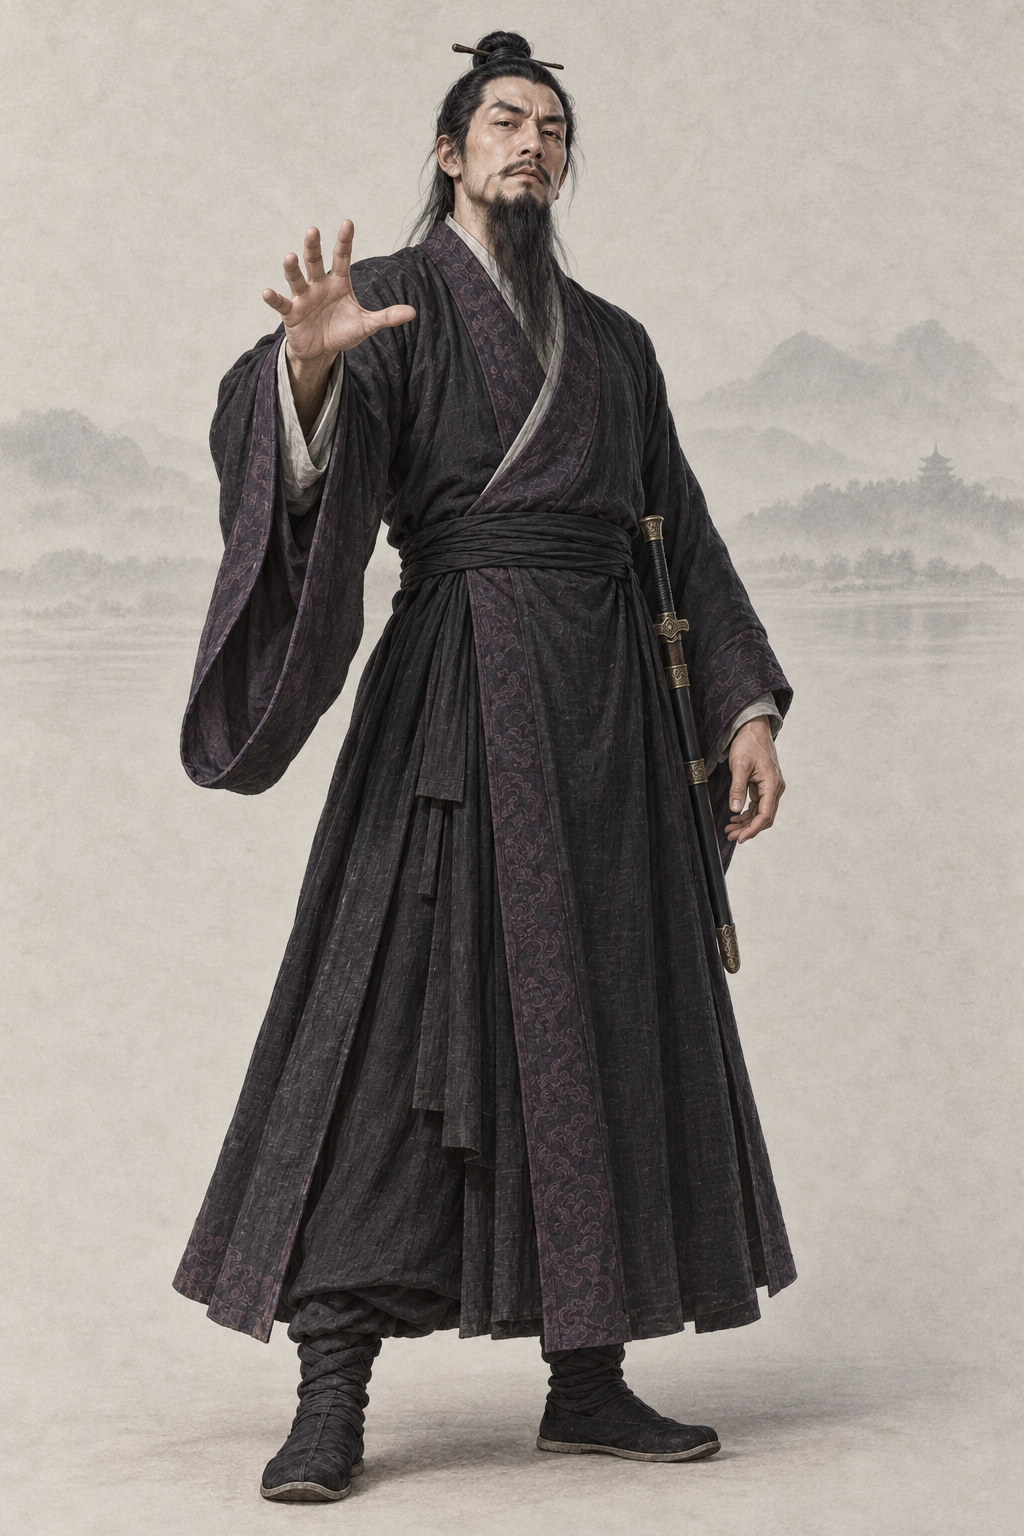
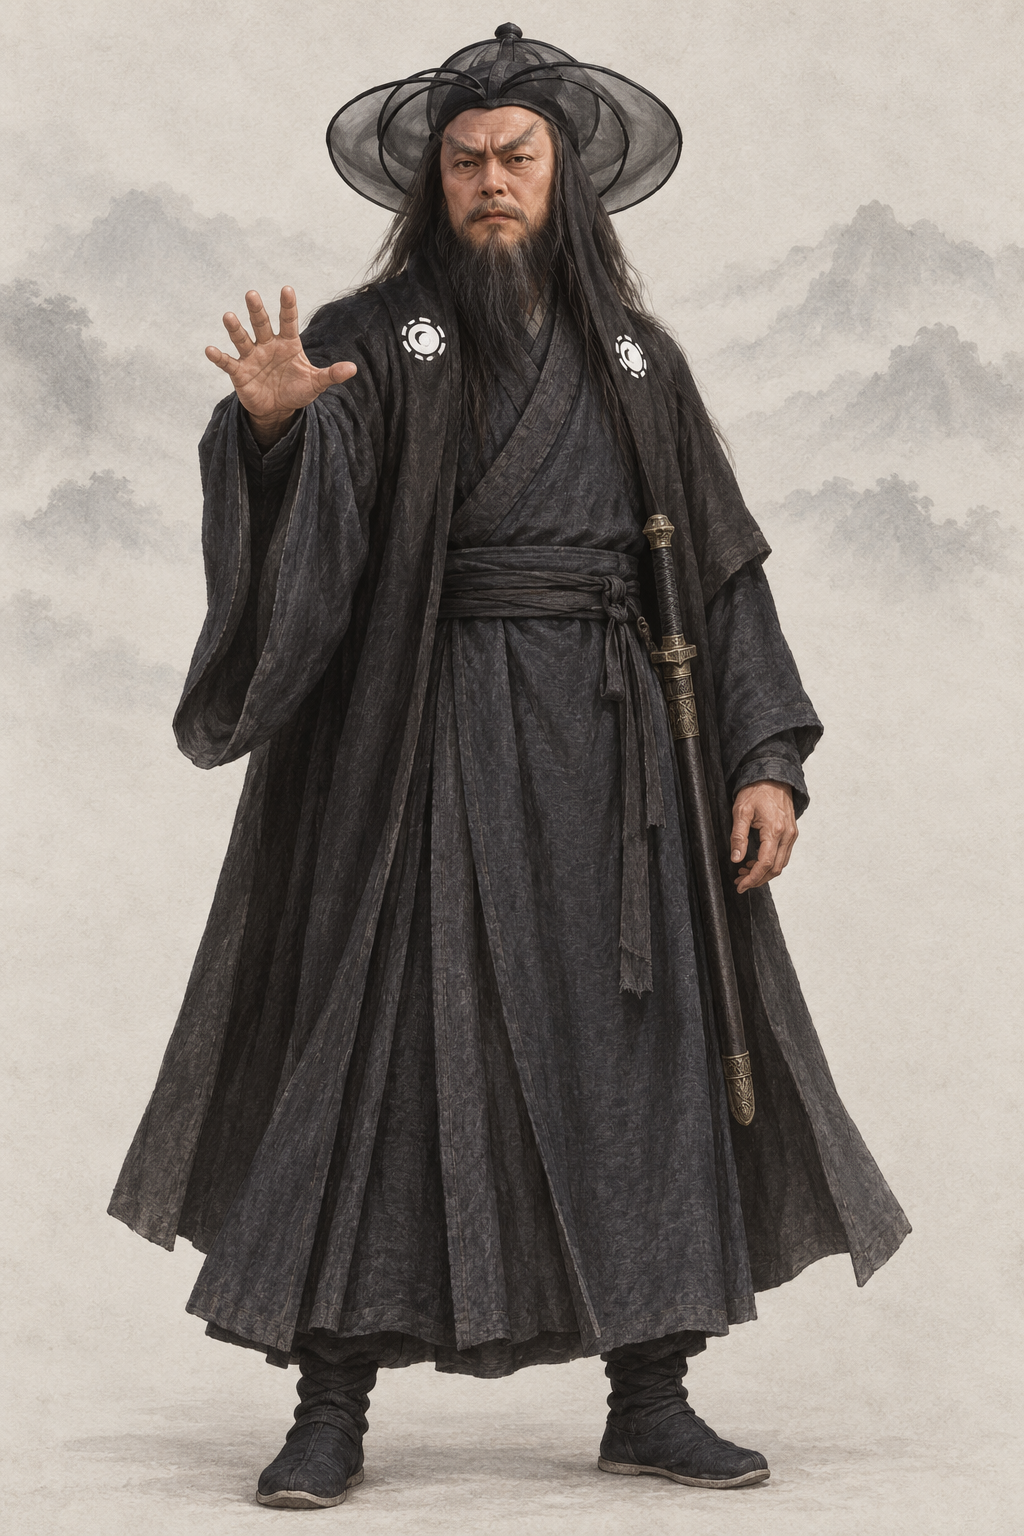
assets(character): por_npc_renwoxing__ch05_elder_released_base 任我行（codex · AR-32 1996 TVB《笑傲江湖》 剧照 + 基线）
上传顺序：第 1–2 张为 1996 TVB《笑傲江湖》任我行剧照（renwoxing_1996_luolelin_sohu.jpg、sina1.jpg，裁去水印与字幕），最后两张为同性别基线；提示词写回、frontmatter 加 classic_ref。

diff --git a/assets/default/prompts/characters/ch05-xiaoao/npc_renwoxing.md b/assets/default/prompts/characters/ch05-xiaoao/npc_renwoxing.md
@@ -17,15 +17,56 @@ references:
   use: 第三仅用户指定浅水墨背景、暖浅灰纸底、远景留白；已在本会话实际view且SHA复核。忽略女性脸、身形、衣装、发饰与头部倾角；墨色不能侵蚀人物皮肤衣料或道具。
 status: redo
 redo_reason: "现图是晒黑、短山羊胡、鬓角花白的普通中年人；原著脱困后是长脸、脸色雪白无血色、须发全黑的高大枭雄，气势不足。"
-reference_upload:
-- assets/default/baseline/character/male/ref_npc_linghuchong__ch05_base01.png
 realism_revision: user_identity_pose_20261001
 codex_prompt_rev: 2026-10-02
+reference_upload:
+- .agents/coord/imagegen-reference/identity-20261002/xiaoao/renwoxing_1996_luolelin_sohu.jpg
+- .agents/coord/imagegen-reference/identity-20261002/xiaoao/renwoxing_1996_luolelin_sina1.jpg
+- assets/default/baseline/character/male/ref_npc_linghuchong__ch05_base01.png
+- assets/default/baseline/character/male/ref_npc_xiaofeng__ch01_base01.png
+classic_ref:
+  version: 1996 TVB《笑傲江湖》
+  stills:
+  - .agents/coord/imagegen-reference/identity-20261002/xiaoao/renwoxing_1996_luolelin_sohu.jpg
+  - .agents/coord/imagegen-reference/identity-20261002/xiaoao/renwoxing_1996_luolelin_sina1.jpg
+  crop:
+    renwoxing_1996_luolelin_sohu.jpg:
+    - 0
+    - 0
+    - 640
+    - 440
+    renwoxing_1996_luolelin_sina1.jpg:
+    - 0
+    - 0
+    - 498
+    - 285
 ---
 
 # 任我行 · 人物写实修正
 
 ## Gemini 提示词
+
+> 2026-10-02 AR-32 重出（8 号出图员，codex exec · image_gen）：主要角色参考经典造型加项目基线生成。上传顺序：第 1–2 张为 1996 TVB《笑傲江湖》任我行剧照（renwoxing_1996_luolelin_sohu.jpg、sina1.jpg，裁去水印与字幕），最后两张为同性别画风基线（缩小版 JPEG）。参考图只借造型、气质与面部特征，画面按项目画风重绘、不复制照片或像素图。上一版保留在下一节作历史。
+
+```text
+生成一张 2:3 竖幅全身人物立绘：单人、单一视角、完整全身——头顶、双手、双脚和手中器物的两端都在画面内，四周留出自然空白；人物站姿自然，身体基本朝向正面，头部端正（不歪头、不仰不俯），镜头平视。
+【参考图】第 1–2 张参考图是该角色经典影视造型的剧照：借鉴其发型、服饰、配色、标志道具、气质和面部特征，让人一眼认出是这个角色；但必须重新绘制成项目画风，不要照片质感，不要照搬剧照的构图、光影、背景和姿势，也不要做成照片修图。最后两张是本项目画风基线：画风、用色、光线、质感和暖浅灰纸底加淡水墨背景以它们为准。
+【剧照借鉴要点】取剧照里的黑色宽檐纱笠（笠檐垂着一圈黑纱、笠顶有几道弯曲的骨架）、黑斗篷上的白色圆形纹样、披散的长发、浓眉和长须、霸气逼人的眼神。姿势和构图按下文的全身立绘来画，不照搬剧照。
+【画风】写实手绘古风人物插画，与本项目写实武侠角色立绘同一画风，像功力深厚的画师用细腻笔触画出的真实人物。手绘插画质感，不是 CG 渲染：不要过度光滑的皮肤、完美对称的五官、塑料高光、过度锐利的发丝；保留自然的笔触和细微不完美。皮肤有真实质感——细小毛孔、细纹、晒痕和自然的左右不对称，不磨皮、不油亮；头发是一缕缕自然的发丝和少量碎发；布料看得出经纬纹理、厚薄和自然垂坠的褶皱，带穿用过的轻微旧化，但完整不破烂；整体设色低饱和、沉稳；柔和的自然光从左上方照来，明暗过渡自然，不打舞台光、轮廓光或美颜柔光。不是照片，不是三维渲染，不是动漫或游戏 CG，也不是油画（没有厚涂笔触和画布纹理）。
+【背景】不透明的暖浅灰色纸底，只在远处有极淡的水墨远山和薄雾，大面积留白；人物与背景明暗分明、轮廓边缘干净完整（后续要自动抠图），水墨和纸纹只在背景里，不侵入人物和衣服；脚下只有很淡的一点接触阴影。
+【人物】任我行，《笑傲江湖》中的日月神教前任教主，被囚西湖湖底十二年、刚脱困重出江湖的时期。
+【年龄与体态】约五十五岁的高大男子，骨架宽大、肩背厚实，站立如山，体格雄强。
+【经典造型】九十年代经典港剧里的任我行：头戴黑纱宽檐笠、黑袍外罩黑斗篷、斗篷肩前有白色圆形日月纹，长发披肩、长须垂胸；目光如电，一代枭雄的狂傲与霸气，不猥琐、不狰狞。
+【面容】按剧照：长方脸、额头宽阔、颧骨高；浓黑的眉毛斜挑；眼睛深陷、目光锐利逼人；鼻梁高挺；嘴唇紧抿，嘴角挂一丝冷笑；唇上浓须、颏下长须垂到胸前，须发乌黑，只夹着极少的灰丝；因久囚湖底，脸色异常苍白、少有血色；额头和眼角有深深的皱纹。
+【发式】乌黑长发披散在肩后，头戴一顶黑色宽檐纱笠（笠檐垂着一圈短短的黑纱，不遮脸）。
+【服饰】黑色交领长袍（右衽，左襟压右襟），外罩一件黑色斗篷，斗篷左右肩前各有一个白色圆形日月纹样；腰系黑色宽带；黑色厚底布靴。衣料厚重考究。
+【道具】腰间左侧佩一柄普通长剑（黑色剑鞘，不出鞘）；右手抬到胸前、五指张开成掌（吸星大法的起手，不画任何光效），左手自然垂下。
+【姿态与神情】正面站定，挺胸（头部端正，不仰头），神情狂傲、目空一切，气势压人。
+【不要】画面里不要任何文字、题款、印章、签名、水印、边框、分格或多视图；不要第二个人；不要幼态（童颜、娃娃脸、婴儿肥、儿童或少年身材、大头小身）；不要塑料感皮肤、磨皮美颜、网红脸（尖下巴大眼高鼻的模板脸）、过度对称、浓妆、偶像式打光、蜡像感；不要照片质感，不要像剧照照片、照片修图或拼贴，不要照搬剧照的背景、光影、构图和姿势；不要三维渲染或动漫大眼；不要歪头、斜镜头；不要多指、缺指（设定的伤残除外）、手与器物粘连或悬空；衣襟必须右衽（穿着者的左襟压在右襟上），不要左衽（设定为少数民族服制的除外），不要水平镜像；不要现代物品、发光特效、法阵或能量光。不要慈祥老人或白发白须的仙翁；不要晒黑的脸色；不要镣铐、囚衣；不要光球、气流等特效；不要清代剃发留辫。
+【画风基线】随提示词上传的参考图里，最后两张是本项目的立绘画风基线：只参考它们的画风、用色、光线、质感和暖浅灰纸底加淡水墨的背景处理，整体画风必须与它们一致——精细写实的数字手绘插画，不是油画，不要厚涂笔触和画布纹理。基线图只取画风，不取长相：不要照搬基线图里人物的长相、年龄、发型、服饰和姿势。
+```
+
+## AR-31 文字版 Gemini 提示词（2026-10-02 凌晨；AR-32 重出之前，历史，不再用于出图）
 
 > 2026-10-02 Codex 人物线 2 号（AR-31）：在审核组稿上补一行「经典形象」（借鉴公认经典造型的发式、装束、配色、标志道具与气质，只写文字，不写演员名、不上传剧照），并补去 AI 化要求。本轮出图用下面第一个代码块；审核组原稿保留在其后的「审核组原稿」小节作历史。
 
